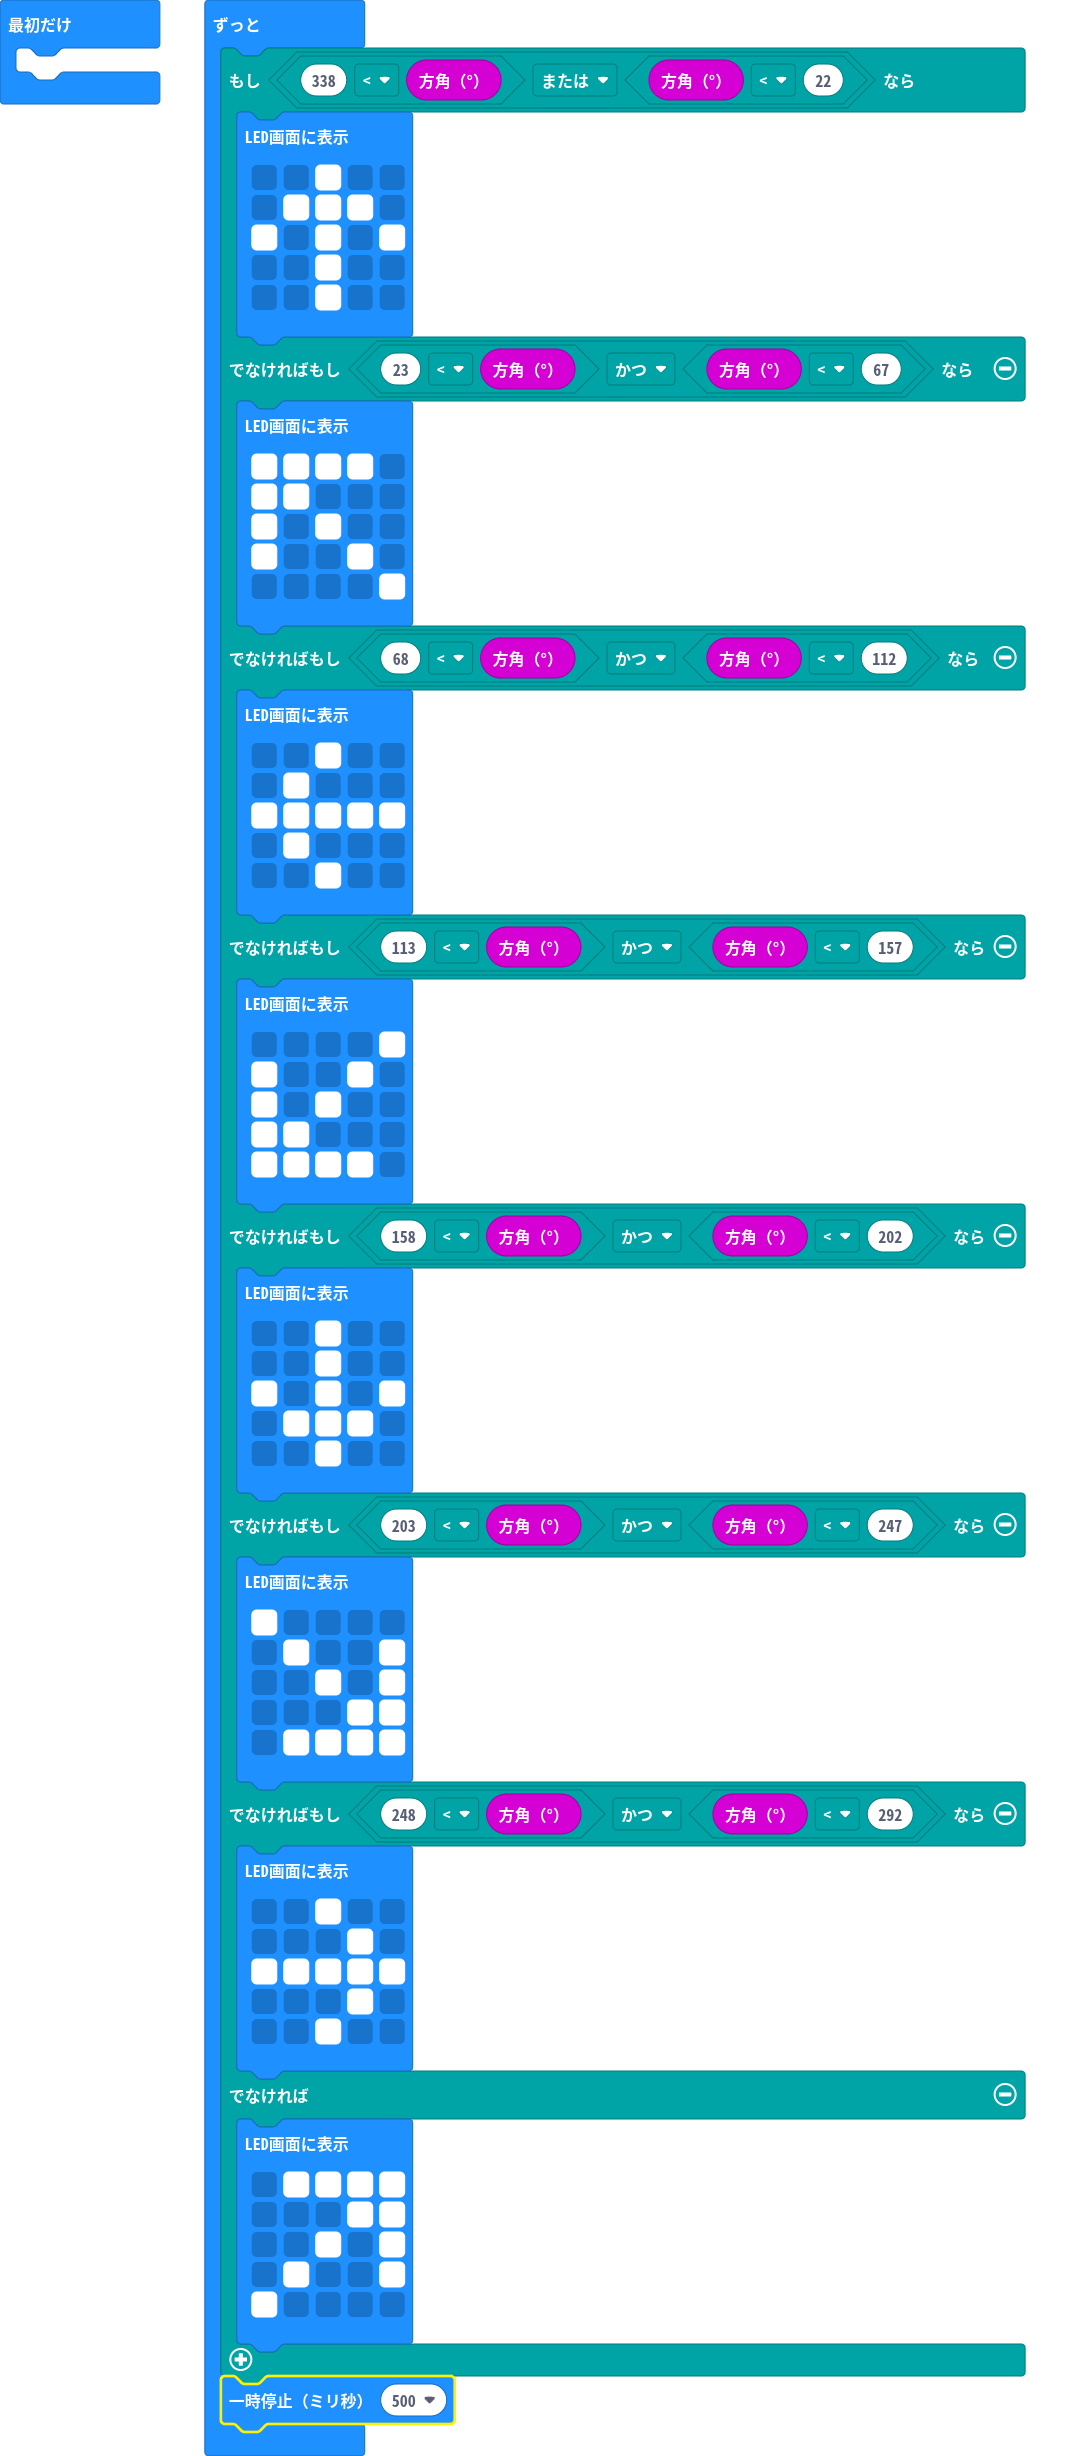
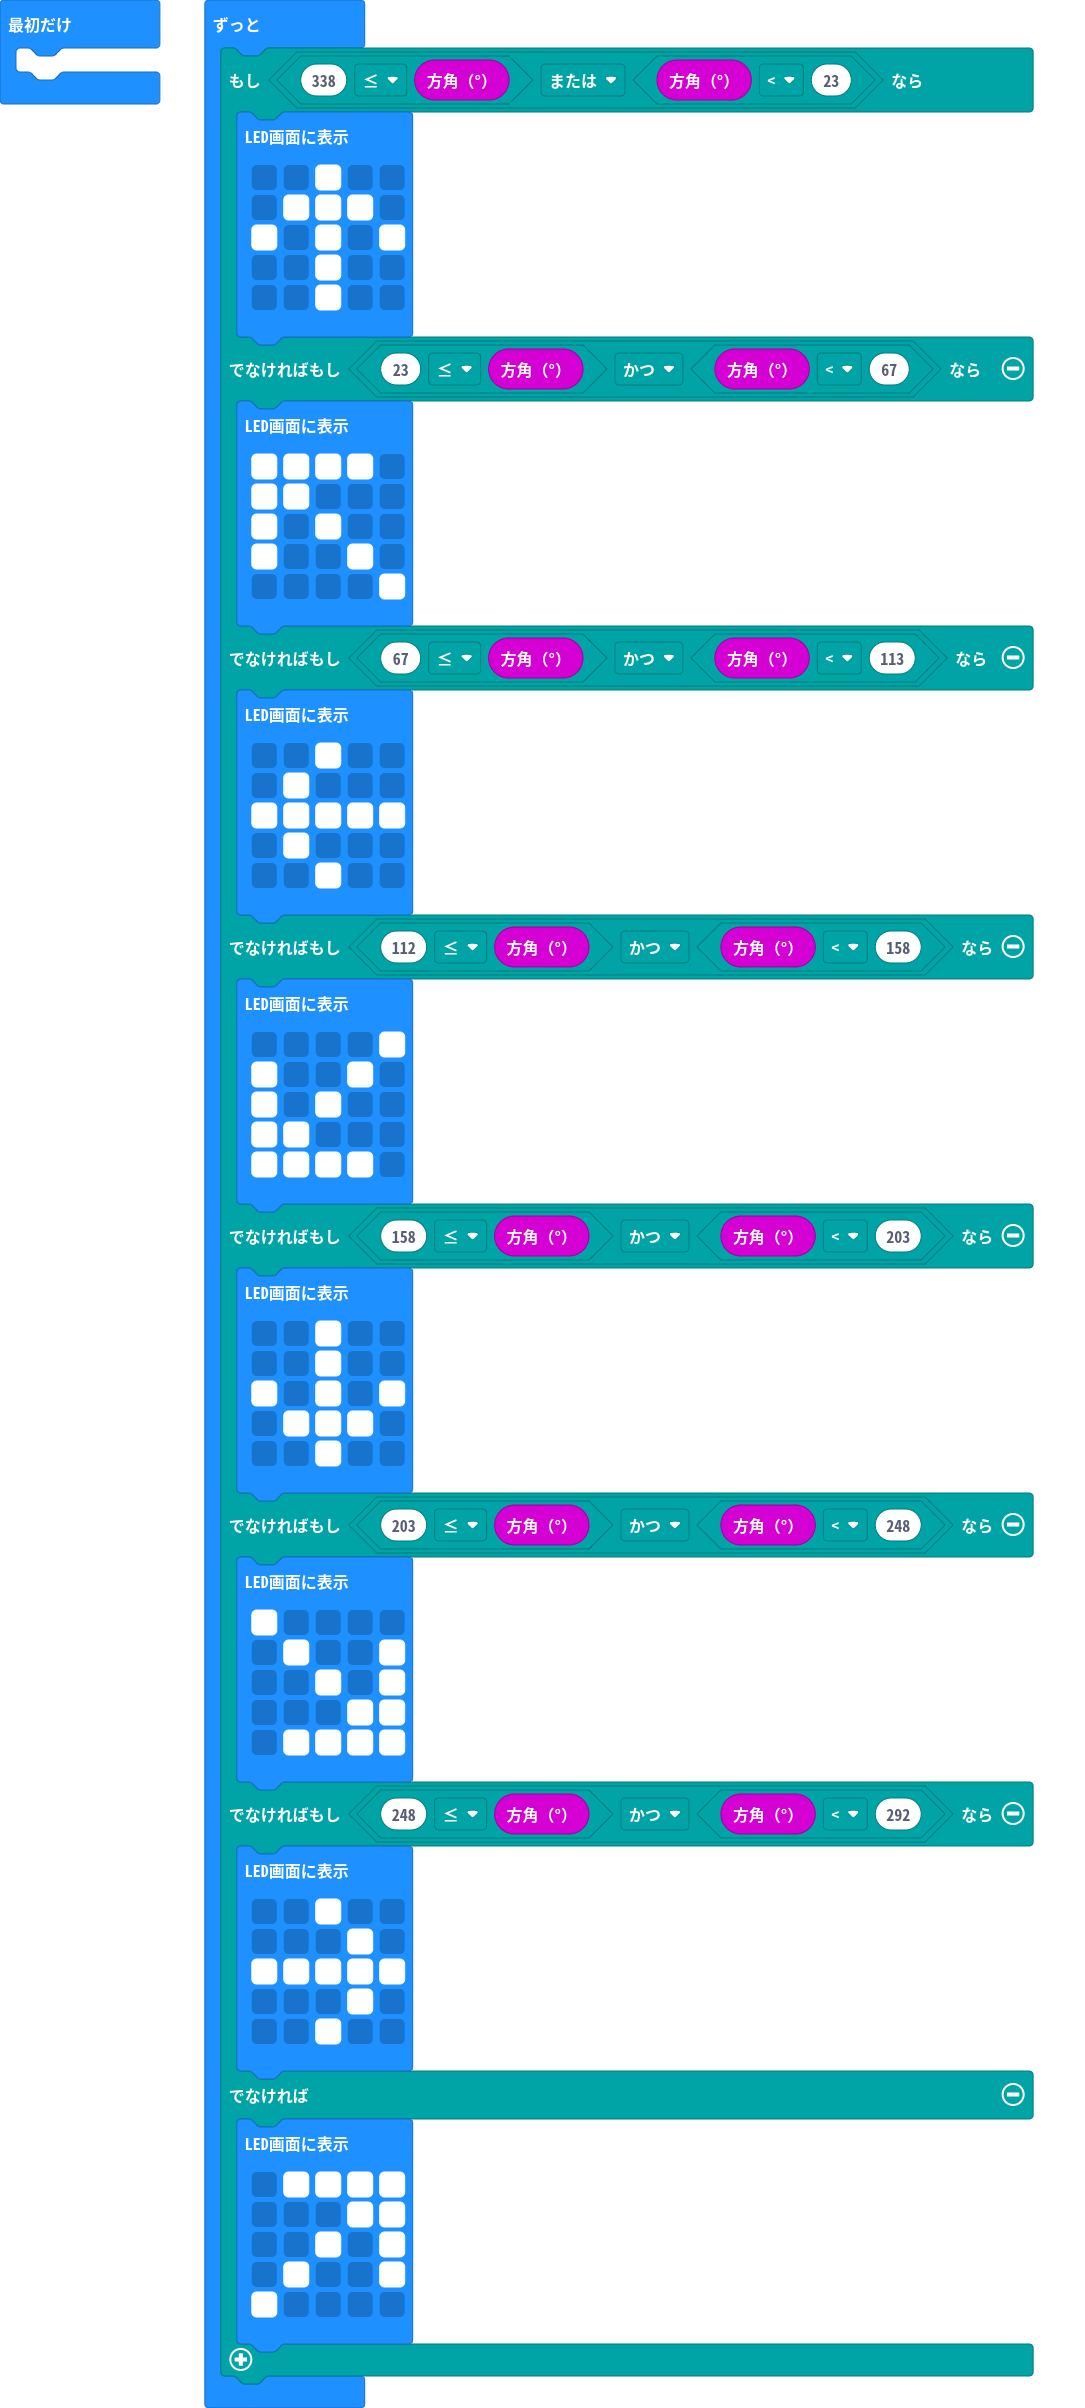
Update main.blocks, main.ts

diff --git a/main.ts b/main.ts
@@ -1,5 +1,5 @@
 basic.forever(function () {
-    if (338 < input.compassHeading() || input.compassHeading() < 22) {
+    if (338 <= input.compassHeading() || input.compassHeading() < 23) {
         basic.showLeds(`
             . . # . .
             . # # # .
@@ -7,7 +7,7 @@ basic.forever(function () {
             . . # . .
             . . # . .
             `)
-    } else if (23 < input.compassHeading() && input.compassHeading() < 67) {
+    } else if (23 <= input.compassHeading() && input.compassHeading() < 67) {
         basic.showLeds(`
             # # # # .
             # # . . .
@@ -15,7 +15,7 @@ basic.forever(function () {
             # . . # .
             . . . . #
             `)
-    } else if (68 < input.compassHeading() && input.compassHeading() < 112) {
+    } else if (67 <= input.compassHeading() && input.compassHeading() < 113) {
         basic.showLeds(`
             . . # . .
             . # . . .
@@ -23,7 +23,7 @@ basic.forever(function () {
             . # . . .
             . . # . .
             `)
-    } else if (113 < input.compassHeading() && input.compassHeading() < 157) {
+    } else if (112 <= input.compassHeading() && input.compassHeading() < 158) {
         basic.showLeds(`
             . . . . #
             # . . # .
@@ -31,7 +31,7 @@ basic.forever(function () {
             # # . . .
             # # # # .
             `)
-    } else if (158 < input.compassHeading() && input.compassHeading() < 202) {
+    } else if (158 <= input.compassHeading() && input.compassHeading() < 203) {
         basic.showLeds(`
             . . # . .
             . . # . .
@@ -39,7 +39,7 @@ basic.forever(function () {
             . # # # .
             . . # . .
             `)
-    } else if (203 < input.compassHeading() && input.compassHeading() < 247) {
+    } else if (203 <= input.compassHeading() && input.compassHeading() < 248) {
         basic.showLeds(`
             # . . . .
             . # . . #
@@ -47,7 +47,7 @@ basic.forever(function () {
             . . . # #
             . # # # #
             `)
-    } else if (248 < input.compassHeading() && input.compassHeading() < 292) {
+    } else if (248 <= input.compassHeading() && input.compassHeading() < 292) {
         basic.showLeds(`
             . . # . .
             . . . # .
@@ -64,5 +64,4 @@ basic.forever(function () {
             # . . . .
             `)
     }
-    basic.pause(500)
 })
